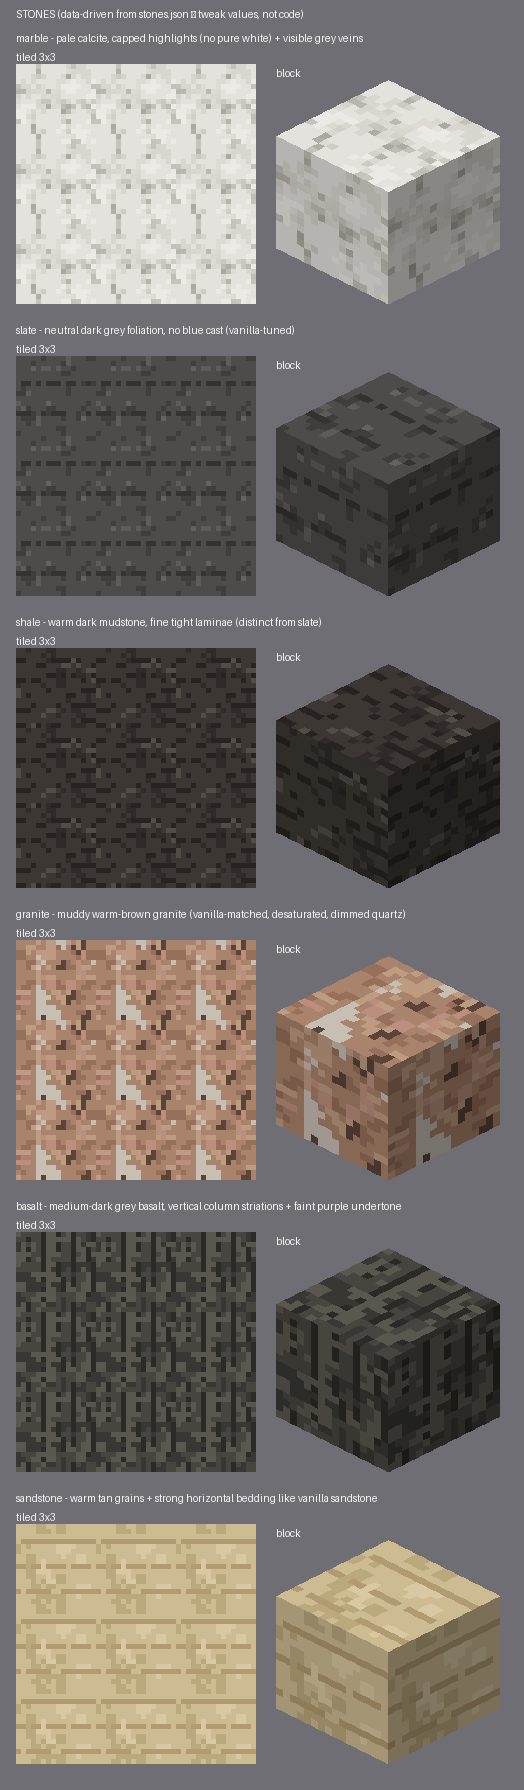
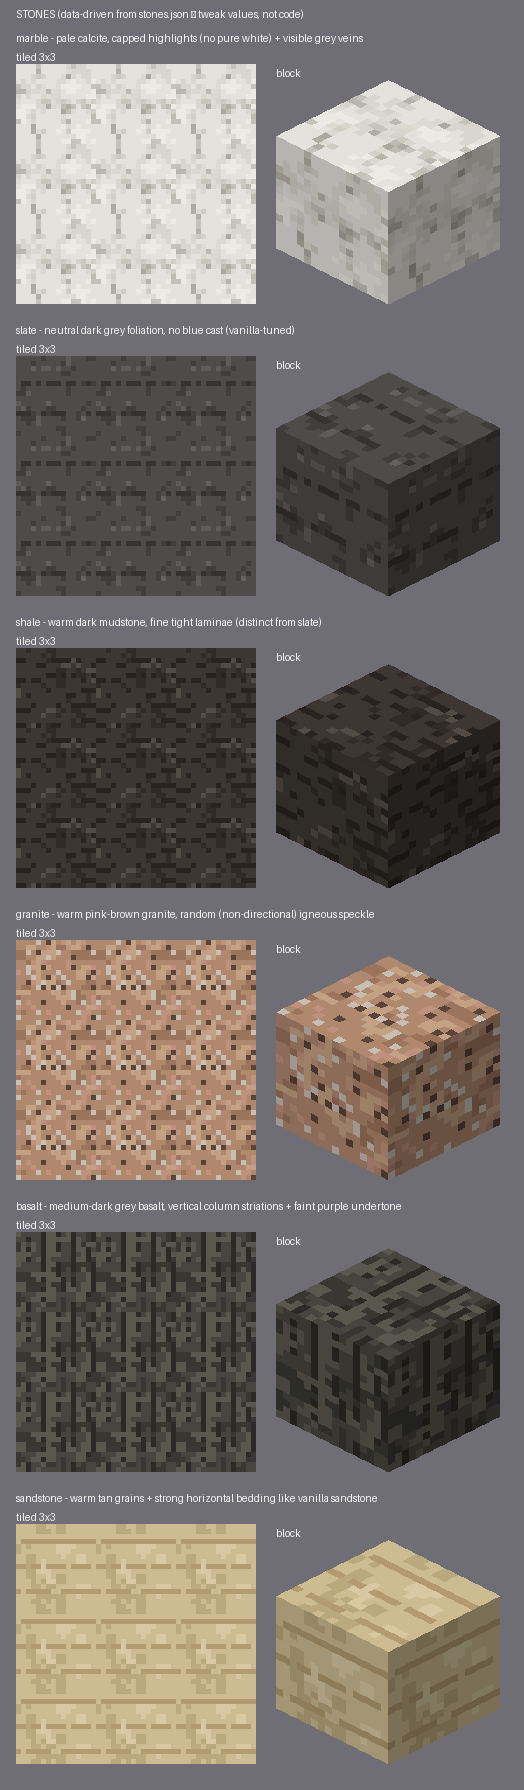
mc-style: kill granite diagonal grain (mineral_cluster 0) + document reference-anchored phase

Changed region(s): [[0.0305, 0.5223, 0.4885, 0.676], [0.5496, 0.5223, 0.9466, 0.676], [0.5191, 0.6145, 0.5496, 0.6453]]

diff --git a/gallery/2026-07-21-mc-style/findings.md b/gallery/2026-07-21-mc-style/findings.md
@@ -52,5 +52,30 @@ stop here and hand that decision to Jacob rather than thrash it with the oracle.
 > shift from execution to concept. A *mod* reference (UBC) is the wrong target for *vanilla* fit —
 > mod stones run hotter/busier on purpose.
 
+## Phase 3 — reference-anchored review (real vanilla as the oracle's anchor)
+The memory-only judge's weakness (round 8 flagged granite on a *concept* claim that was arguably a
+memory error — vanilla granite really is a warm mottled stone) motivated giving the oracle a real
+anchor. Pulled actual vanilla textures into scratchpad (reference-policy: never committed) and built:
+- `ref_blind_test.py` — our stones beside an authentic vanilla wall.
+- `scene_ref.py` — a world **cross-section** (grass→dirt→stone strata w/ igneous blobs+ores→deepslate,
+  desert sand→sandstone), our stones woven in as veins, vanilla sandstone beside ours for direct compare.
+
+**Reframed the ask** (user's idea): don't tell the fresh instance the blocks aren't vanilla — ask it
+*how to make them fit*. This flipped the output from an adversarial rotating-outlier hunt into concrete
+per-block craft direction. Applied, with a new engine feature:
+- Engine: `apply_columns` (vertical striations) for basalt's columnar-jointing signature.
+- basalt: near-black → medium warm-grey + vertical columns (distinct from deepslate).
+- granite: re-warmed to vanilla's pink-brown, `mineral_cluster:0` to kill a diagonal grain artifact
+  (the one defect two independent reviewers agreed on).
+- marble: capped highlights (no pure white 255→~236) + more visible veins.
+- shale: warmer, finer laminae, lifted darkest value (distinct from slate, not a silhouette).
+- sandstone: strong horizontal bedding to match vanilla sandstone beside it.
+
+**Convergence signal:** by the final review, independent fresh instances gave *contradictory* notes
+(granite too-pink ↔ too-brown; sandstone bedding too-strong ↔ too-faint). Cross-reviewer contradiction
+on the remaining nits = the taste/variance floor, i.e. converged. The only cross-reviewer-consistent
+defect (granite's directional grain) was fixed; the rest is preference.
+
 ## Not verified
-In-game read at real scale/lighting/tiling across a wall — flat upscaled previews only. Jacob's eye.
+In-game read at real scale/lighting/tiling across a wall — flat upscaled previews only. Every reviewer
+flagged this as the real remaining unknown. Jacob's eye.
